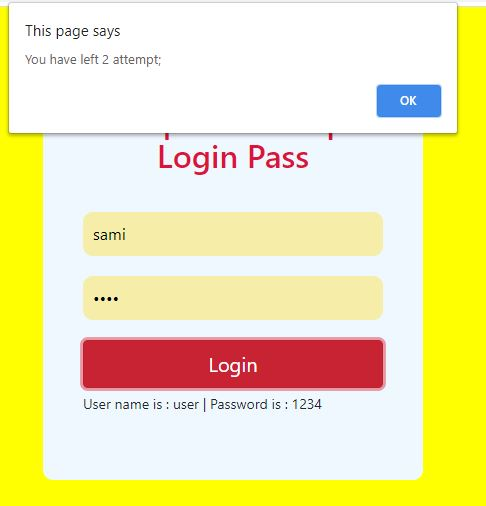
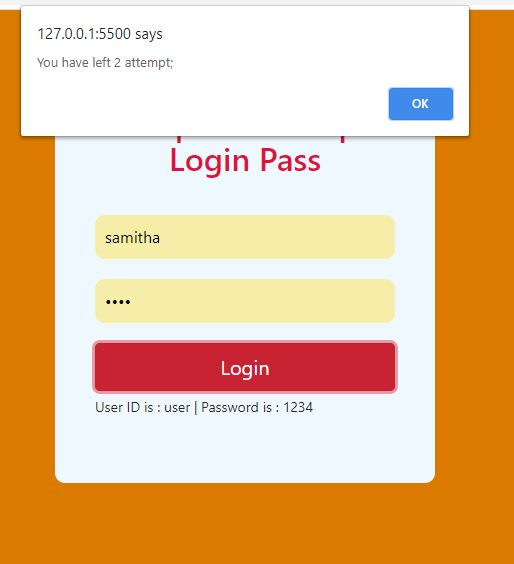
Did some changes on html, css files & screenshot images

diff --git a/index.html b/index.html
@@ -20,7 +20,7 @@
             <input type="text" id="userId" placeholder="User ID" required="" autofocus="">
             <input type="password" id="userPassword" placeholder="Password" required="" autofocus="">
             <button id="loginPass" class="btn btn-block btn-lg btn-danger" onclick="bypass()">Login</button>
-            <p class="txt">User name is : user | Password is : 1234</p>
+            <p class="txt">User ID is : user | Password is : 1234</p>
         </div>
     </div>
 

diff --git a/log.html b/log.html
@@ -16,7 +16,7 @@
 
     <div class="wrap">
         <div class="form">
-            <h2 style="margin-top: 65px;">Congratulations..!! Your login pass is successfuly..!!</h2>
+            <h2 style="margin-top: 65px;">Congratulations..!! Your login pass is successfully..!!</h2>
         </div>
     </div>
 

diff --git a/css/style.css b/css/style.css
@@ -1,5 +1,5 @@
 body {
-    background-color: yellow;
+    background-color: rgb(218, 123, 0);
 }
 
 .wrap {
